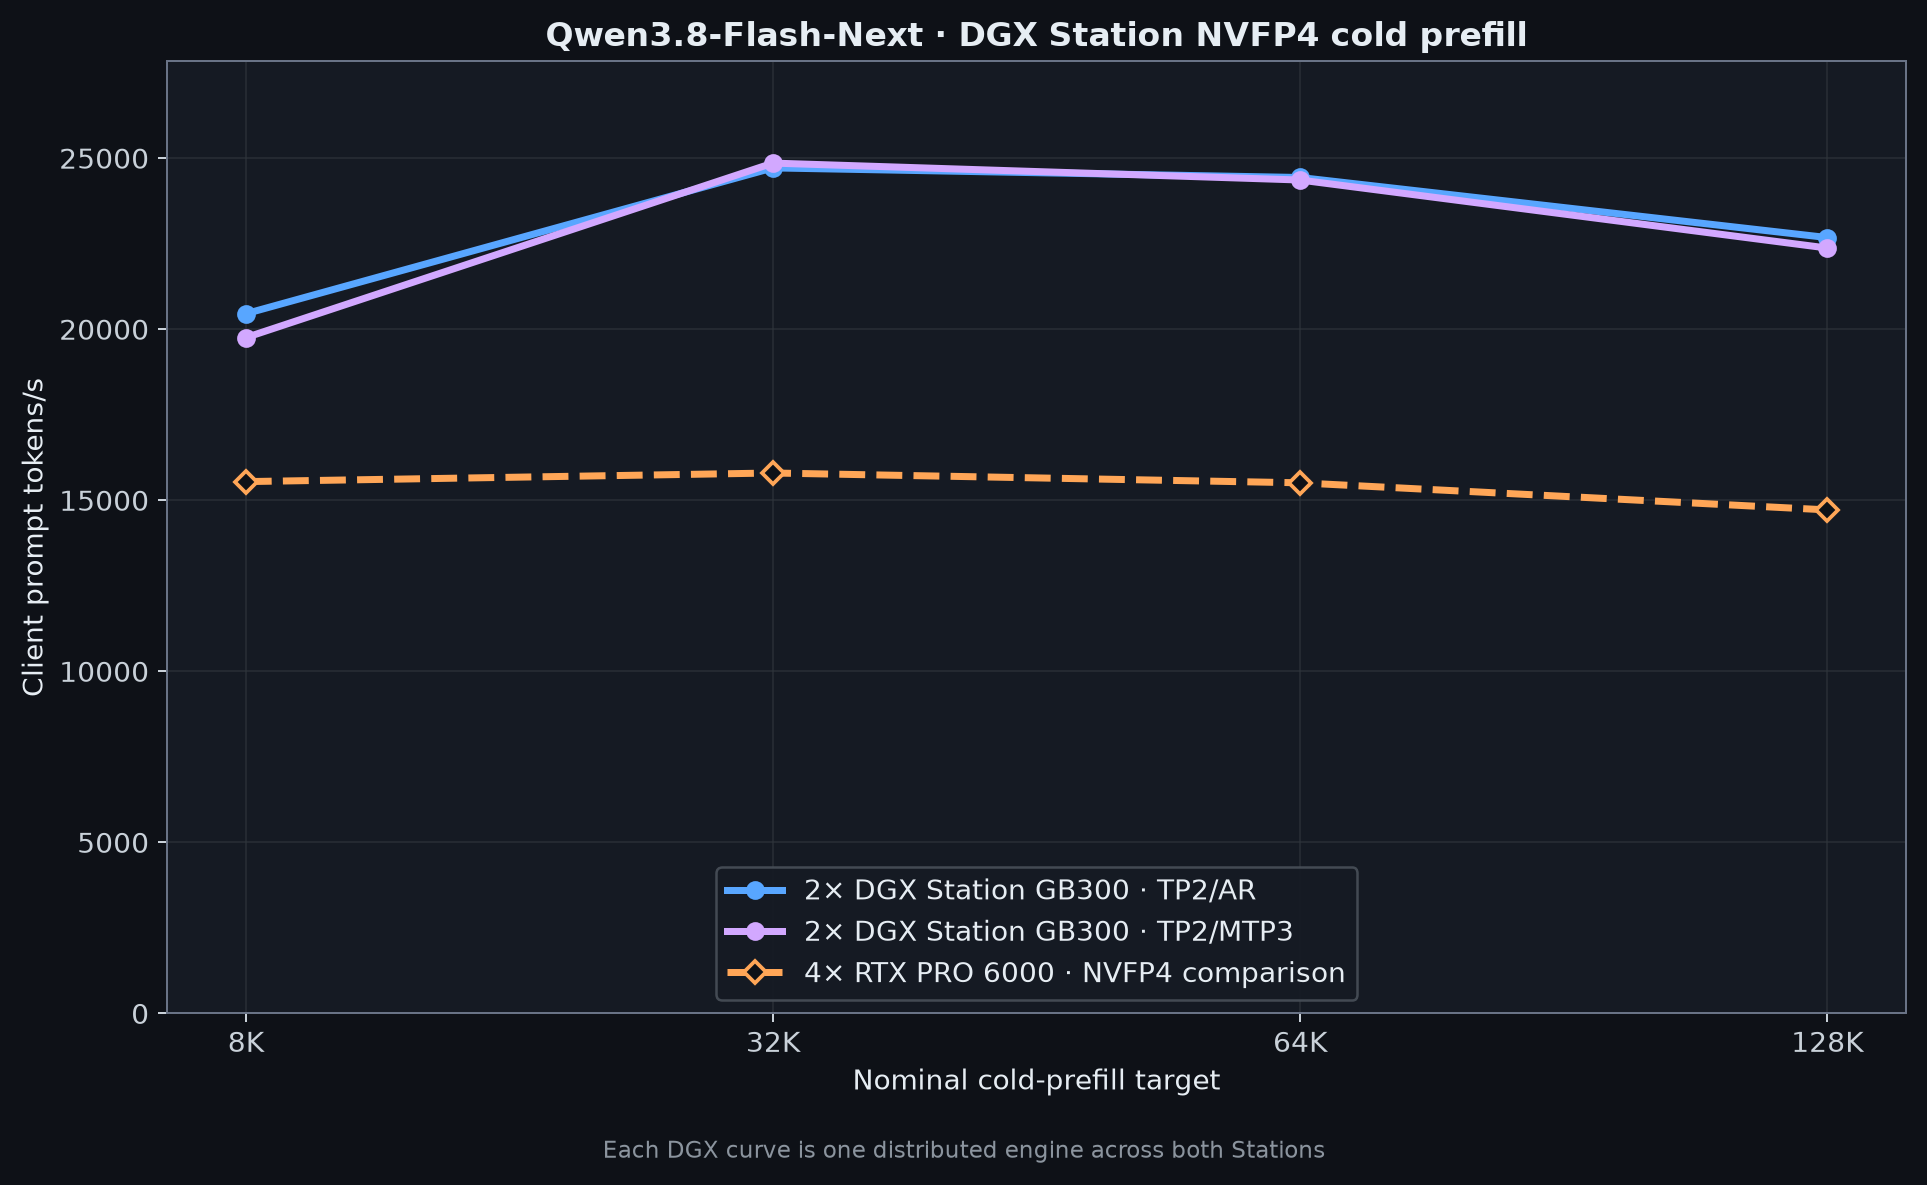
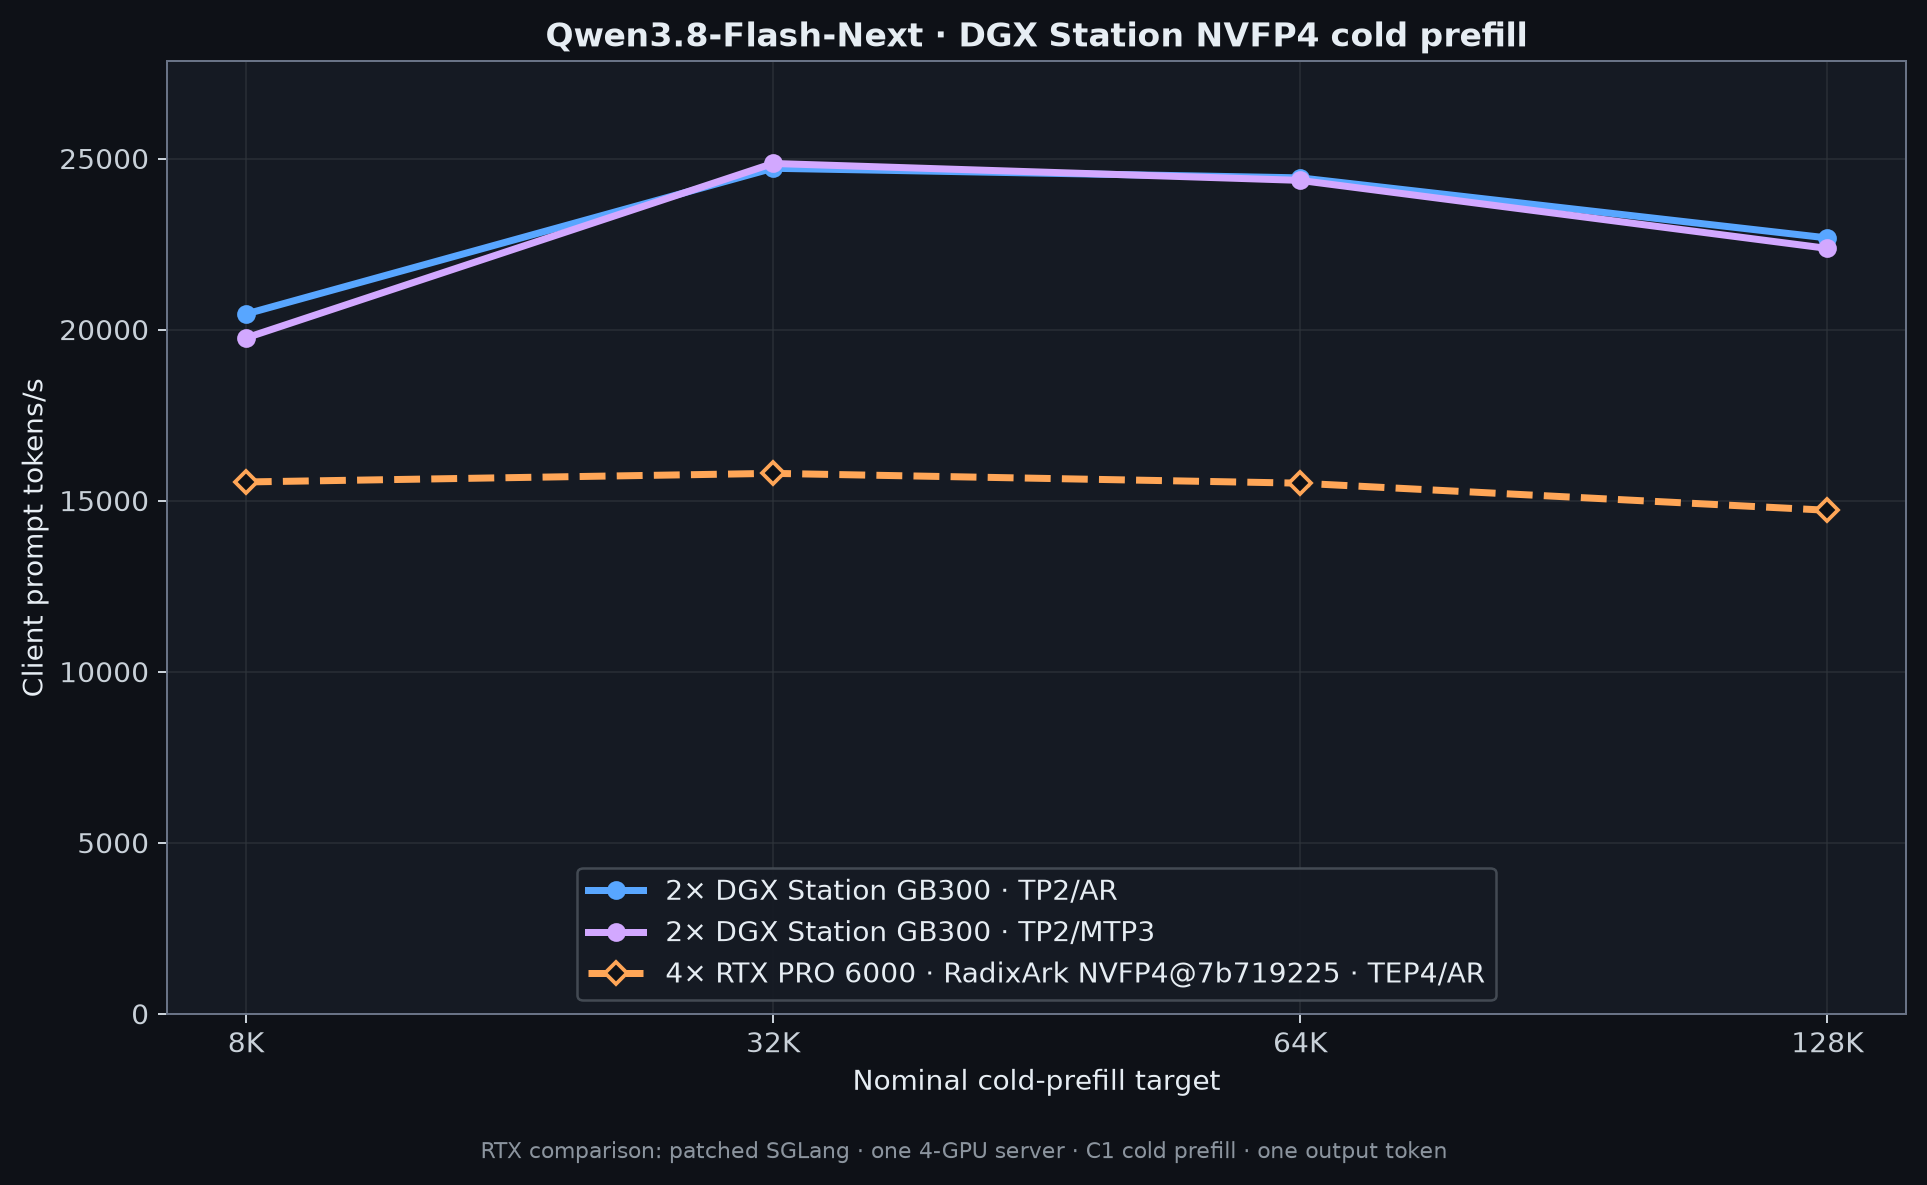
Identify Qwen RTX PRO comparison configuration

diff --git a/qwen3.8-flash-next/charts/render-charts.py b/qwen3.8-flash-next/charts/render-charts.py
@@ -63,8 +63,8 @@ DGX_HEADLINE_SERIES = {
         "^",
     ),
 }
-RTX_COMPARISON_LABEL = "4× RTX PRO 6000 · NVFP4 comparison"
-RTX_NVFP4_PROFILES = {"nvfp4_tep4_ar", "nvfp4_tep4_mtp3"}
+RTX_COMPARISON_LABEL = "4× RTX PRO 6000 · RadixArk NVFP4@7b719225 · TEP4/AR"
+RTX_NVFP4_PROFILE = "nvfp4_tep4_ar"
 
 BACKGROUND = "#0E1117"
 PANEL = "#151A23"
@@ -176,31 +176,29 @@ def dynamic_y_upper(values: list[float]) -> float:
     return max(1.0, max(values, default=0.0) * 1.12)
 
 
-def best_rtx_nvfp4_decode() -> dict[int, float]:
-    best: dict[int, float] = {}
+def rtx_nvfp4_ar_decode() -> dict[int, float]:
+    values: dict[int, float] = {}
     for row in published_external_rows("throughput.csv"):
         concurrency = int(row["concurrency"])
-        if row["profile"] not in RTX_NVFP4_PROFILES or concurrency > 64:
+        if row["profile"] != RTX_NVFP4_PROFILE or concurrency > 64:
             continue
-        throughput = float(row["aggregate_output_tokens_per_second"])
-        best[concurrency] = max(best.get(concurrency, 0.0), throughput)
-    return best
+        values[concurrency] = float(row["aggregate_output_tokens_per_second"])
+    return values
 
 
-def best_rtx_nvfp4_prefill() -> dict[int, float]:
-    best: dict[int, float] = {}
+def rtx_nvfp4_ar_prefill() -> dict[int, float]:
+    values: dict[int, float] = {}
     for row in published_external_rows("prefill.csv"):
-        if row["profile"] not in RTX_NVFP4_PROFILES:
+        if row["profile"] != RTX_NVFP4_PROFILE:
             continue
         context = int(row["nominal_context_tokens"])
-        throughput = float(row["client_prompt_tokens_per_second"])
-        best[context] = max(best.get(context, 0.0), throughput)
-    return best
+        values[context] = float(row["client_prompt_tokens_per_second"])
+    return values
 
 
 def render_dgx_decode() -> None:
     grouped = headline_dgx_series("decode")
-    rtx_best = best_rtx_nvfp4_decode()
+    rtx_comparison = rtx_nvfp4_ar_decode()
     figure, axis = plt.subplots(figsize=(10.8, 6.6))
     plotted_values: list[float] = []
     for profile, (label, color, linestyle, marker) in DGX_HEADLINE_SERIES.items():
@@ -220,9 +218,13 @@ def render_dgx_decode() -> None:
             label=label,
         )
 
-    rtx_concurrencies = [value for value in DGX_CONCURRENCIES if value in rtx_best]
+    rtx_concurrencies = [
+        value for value in DGX_CONCURRENCIES if value in rtx_comparison
+    ]
     if rtx_concurrencies:
-        rtx_values = [rtx_best[concurrency] for concurrency in rtx_concurrencies]
+        rtx_values = [
+            rtx_comparison[concurrency] for concurrency in rtx_concurrencies
+        ]
         plotted_values.extend(rtx_values)
         axis.plot(
             rtx_concurrencies,
@@ -247,10 +249,10 @@ def render_dgx_decode() -> None:
     figure.text(
         0.5,
         0.018,
-        "Each DGX curve is one distributed engine across both Stations",
+        "RTX comparison: patched SGLang · one 4-GPU server · 8,192 input + 1,024 output tokens · temperature 0",
         ha="center",
         color=MUTED,
-        fontsize=9.4,
+        fontsize=8.8,
     )
     figure.tight_layout(rect=(0, 0.045, 1, 1))
     figure.savefig(
@@ -264,7 +266,7 @@ def render_dgx_decode() -> None:
 
 def render_dgx_prefill() -> None:
     grouped = headline_dgx_series("prefill")
-    rtx_best = best_rtx_nvfp4_prefill()
+    rtx_comparison = rtx_nvfp4_ar_prefill()
     figure, axis = plt.subplots(figsize=(10.8, 6.6))
     positions = list(range(len(PREFILL_CONTEXTS)))
     context_labels = ("8K", "32K", "64K", "128K")
@@ -289,9 +291,11 @@ def render_dgx_prefill() -> None:
             label=label,
         )
 
-    rtx_contexts = [context for context in PREFILL_CONTEXTS if context in rtx_best]
+    rtx_contexts = [
+        context for context in PREFILL_CONTEXTS if context in rtx_comparison
+    ]
     if rtx_contexts:
-        rtx_values = [rtx_best[context] for context in rtx_contexts]
+        rtx_values = [rtx_comparison[context] for context in rtx_contexts]
         plotted_values.extend(rtx_values)
         axis.plot(
             [position_by_context[context] for context in rtx_contexts],
@@ -317,10 +321,10 @@ def render_dgx_prefill() -> None:
     figure.text(
         0.5,
         0.018,
-        "Each DGX curve is one distributed engine across both Stations",
+        "RTX comparison: patched SGLang · one 4-GPU server · C1 cold prefill · one output token",
         ha="center",
         color=MUTED,
-        fontsize=9.4,
+        fontsize=8.8,
     )
     figure.tight_layout(rect=(0, 0.045, 1, 1))
     figure.savefig(

diff --git a/qwen3.8-flash-next/tests/test_section_contract.py b/qwen3.8-flash-next/tests/test_section_contract.py
@@ -276,27 +276,27 @@ class SectionContractTests(unittest.TestCase):
             renderer.dynamic_y_upper([1000.0]),
         )
 
-    def test_workstation_nvfp4_best_envelope_is_exact_and_stops_at_c64(self) -> None:
+    def test_workstation_nvfp4_tep4_ar_comparison_is_exact_and_stops_at_c64(self) -> None:
         renderer = load_chart_renderer()
         self.assertEqual(
             renderer.RTX_COMPARISON_LABEL,
-            "4× RTX PRO 6000 · NVFP4 comparison",
+            "4× RTX PRO 6000 · RadixArk NVFP4@7b719225 · TEP4/AR",
         )
         expected_decode = {
-            1: 211.707556,
-            2: 393.985297,
-            4: 674.751892,
-            8: 1049.006002,
-            16: 1524.156598,
+            1: 116.892021,
+            2: 223.256146,
+            4: 416.150994,
+            8: 750.218064,
+            16: 1299.416259,
             32: 1997.580658,
             64: 2849.433100,
         }
-        decode = renderer.best_rtx_nvfp4_decode()
+        decode = renderer.rtx_nvfp4_ar_decode()
         self.assertEqual(set(decode), set(expected_decode))
         for concurrency, expected in expected_decode.items():
             self.assertAlmostEqual(decode[concurrency], expected, places=6)
         expected_prefill = {8192: 15547, 32768: 15799, 65536: 15512, 131072: 14720}
-        prefill = renderer.best_rtx_nvfp4_prefill()
+        prefill = renderer.rtx_nvfp4_ar_prefill()
         self.assertEqual(set(prefill), set(expected_prefill))
         for context, expected in expected_prefill.items():
             self.assertEqual(prefill[context], expected)
@@ -379,6 +379,13 @@ class SectionContractTests(unittest.TestCase):
         self.assertIn("local-inference-lab/Qwen3.8-Flash-Next-NVFP4-4p89", section)
         self.assertIn("one distributed engine across both Stations", section)
         self.assertIn("comparison point, not a DGX Station", section)
+        self.assertIn(
+            "RadixArk/Qwen3.8-Flash-Next-NVFP4@"
+            "7b719225242aacd3dbd3f9407468c2ee9a9d2594",
+            section,
+        )
+        self.assertIn("one TEP4/AR server across four RTX PRO 6000", section)
+        self.assertIn("8,192 input + 1,024 output tokens at temperature 0", section)
         headline = section.split("Exact checkpoint revisions", 1)[0]
         self.assertNotIn("source-sealed", headline.lower())
         self.assertNotIn("sealed", headline.lower())

diff --git a/qwen3.8-flash-next/charts/README.md b/qwen3.8-flash-next/charts/README.md
@@ -1,15 +1,16 @@
 # Qwen3.8-Flash-Next charts
 
 - `dgx-nvfp4-decode.png` shows the two-Station TP2/TEP2 NVFP4 decode lanes
-  through C64 with the 4× RTX PRO 6000 comparison.
+  through C64 with the 4× RTX PRO 6000 RadixArk NVFP4 TEP4/AR comparison.
 - `dgx-nvfp4-prefill.png` shows the matching cold-prefill comparison.
 - `decode-throughput.png` shows the 4× RTX PRO 6000 reference decode matrix.
 - `cold-prefill-throughput.png` shows the workstation reference prefill matrix.
 - `tep4-{ar,mtp3}-{decode,prefill}-comparison.png` compares the workstation's
   official FP8/vLLM and Radix NVFP4/SGLang lanes.
 
-Every DGX curve is one distributed engine across both Stations. Detailed run
-and source notes are in [`../recipes/`](../recipes/).
+Every DGX curve is one distributed engine across both Stations. The dashed
+workstation curve is one TEP4/AR server across four GPUs. Detailed run and
+source notes are in [`../recipes/`](../recipes/).
 
 Use CPython 3.12 (the committed charts were rendered with 3.12.3), create the
 pinned chart environment from the section root, then regenerate or verify the

diff --git a/qwen3.8-flash-next/README.md b/qwen3.8-flash-next/README.md
@@ -20,9 +20,12 @@ on SGLang. This is one distributed engine across both Stations using TP2.
 
 ## RTX PRO 6000 comparison
 
-The dashed orange line is the best measured NVFP4 result from one server with
-four RTX PRO 6000 Blackwell GPUs. It is a comparison point, not a DGX Station
-headline.
+The dashed orange line is
+`RadixArk/Qwen3.8-Flash-Next-NVFP4@7b719225242aacd3dbd3f9407468c2ee9a9d2594`
+on patched SGLang: one TEP4/AR server across four RTX PRO 6000 Blackwell GPUs.
+Fixed decode is 8,192 input + 1,024 output tokens at temperature 0, shown from
+C1 through C64. Cold prefill is C1 at 8K, 32K, 64K, and 128K with one output
+token. This is a comparison point, not a DGX Station headline.
 
 Exact checkpoint revisions, launch settings, workload, and per-cell values are
 in the [recipe](recipes/) and [`data/`](data/).

diff --git a/qwen3.8-flash-next/recipes/README.md b/qwen3.8-flash-next/recipes/README.md
@@ -39,10 +39,9 @@ Raw result roots are under
 C1–C64 publication pass; it also requires the launcher's completed cleanup and
 postflight marker.
 
-The chart series labeled `4× RTX PRO 6000 · NVFP4 comparison` is a pointwise
-envelope over the workstation's TEP4/AR and TEP4/MTP3 measurements, not one
-fixed decode mode. MTP3 supplies C1–C16; AR supplies C32–C64. The prefill
-envelope uses AR at all four contexts.
+The dashed chart comparison is the workstation's RadixArk NVFP4/SGLang
+TEP4/AR profile at every point. It is one server across all four RTX PRO 6000
+GPUs, shown at C1–C64 decode and all four cold-prefill contexts.
 
 ## RTX PRO 6000 comparison details
 
